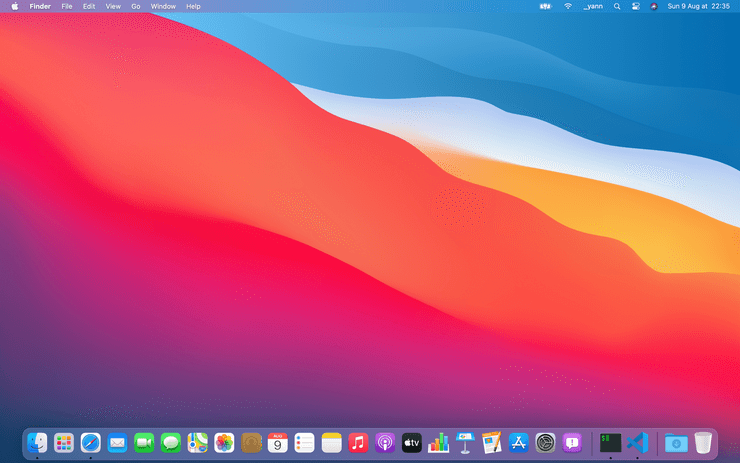
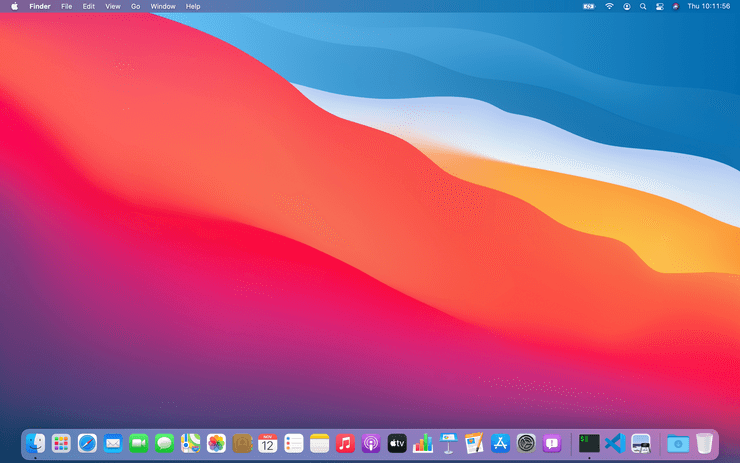
:recycle: Use MacRunner

diff --git a/record/dock/orientation/bottom.js b/record/dock/orientation/bottom.js
@@ -1,42 +1,27 @@
-const delay = require('delay')
-const glob = require('glob-promise')
-const robot = require('robotjs')
-const util = require('util')
-const exec = util.promisify(require('child_process').exec)
+const MacRunner = require('../../mac-runner')
 const { compressPngImage } = require('../../utils')
 
 module.exports = {
   run: async (outputPath) => {
     console.log('> Recording dock orientation with param set to bottom')
 
-    const { stderr: setEnvError } = await exec('defaults write com.apple.screencapture show-thumbnail -bool false && defaults write com.apple.dock orientation -string bottom && killall Dock')
-    if (setEnvError) {
-      console.error('An error occured while setting up the dock orientation command')
+    try {
+      const runner = new MacRunner()
+      await runner
+        .setDefault('com.apple.dock', 'orientation', '-string bottom', 'killall Dock')
+        .captureScreen(`${outputPath}/bottom-tmp.png`)
+        .deleteDefault('com.apple.dock', 'orientation', 'killall Dock')
+        .run()
+    } catch (runnerError) {
       logRollbackInfo()
-      throw new Error(setEnvError)
+      throw new Error(runnerError)
     }
 
-    // Preparation
-    await delay(3000)
-
-    // Screenshot
-    robot.keyTap('3', ['command', 'shift'])
-    
-    await delay(1000)
-    const screenshot = (await glob(`/Users/${process.env.USER}/Desktop/*.png`)).pop()
-
     try {
-      await compressPngImage(screenshot, outputPath, 'bottom')
+      await compressPngImage(`${outputPath}/bottom-tmp.png`, outputPath, 'bottom')
     } catch (compressPngImageError) {
       logRollbackInfo()
       throw new Error(compressPngImageError)
-    }
-
-    const { stderr: deleteEnvError } = await exec('defaults delete com.apple.screencapture show-thumbnail && defaults delete com.apple.dock orientation && killall Dock')
-    if (deleteEnvError) {
-      console.error('An error occured while cleaning the dock orientation environment')
-      logRollbackInfo()
-      throw new Error(deleteEnvError)
     }
 
     return { filepath: `${outputPath}/bottom` }
@@ -45,5 +30,5 @@ module.exports = {
 
 function logRollbackInfo() {
   console.info('Please manually run this command to make sure everything is properly reset:')
-  console.info('defaults delete com.apple.screencapture show-thumbnail && defaults delete com.apple.dock orientation && killall Dock')
+  console.info('defaults delete com.apple.dock orientation && killall Dock')
 }

diff --git a/record/dock/orientation/right.js b/record/dock/orientation/right.js
@@ -1,42 +1,27 @@
-const delay = require('delay')
-const glob = require('glob-promise')
-const robot = require('robotjs')
-const util = require('util')
-const exec = util.promisify(require('child_process').exec)
+const MacRunner = require('../../mac-runner')
 const { compressPngImage } = require('../../utils')
 
 module.exports = {
   run: async (outputPath) => {
     console.log('> Recording dock orientation with param set to right')
 
-    const { stderr: setEnvError } = await exec('defaults write com.apple.screencapture show-thumbnail -bool false && defaults write com.apple.dock orientation -string right && killall Dock')
-    if (setEnvError) {
-      console.error('An error occured while setting up the dock orientation command')
+    try {
+      const runner = new MacRunner()
+      await runner
+        .setDefault('com.apple.dock', 'orientation', '-string right', 'killall Dock')
+        .captureScreen(`${outputPath}/right-tmp.png`)
+        .deleteDefault('com.apple.dock', 'orientation', 'killall Dock')
+        .run()
+    } catch (runnerError) {
       logRollbackInfo()
-      throw new Error(setEnvError)
+      throw new Error(runnerError)
     }
 
-    // Preparation
-    await delay(3000)
-
-    // Screenshot
-    robot.keyTap('3', ['command', 'shift'])
-    
-    await delay(1000)
-    const screenshot = (await glob(`/Users/${process.env.USER}/Desktop/*.png`)).pop()
-
     try {
-      await compressPngImage(screenshot, outputPath, 'right')
+      await compressPngImage(`${outputPath}/right-tmp.png`, outputPath, 'right')
     } catch (compressPngImageError) {
       logRollbackInfo()
       throw new Error(compressPngImageError)
-    }
-
-    const { stderr: deleteEnvError } = await exec('defaults delete com.apple.screencapture show-thumbnail && defaults delete com.apple.dock orientation && killall Dock')
-    if (deleteEnvError) {
-      console.error('An error occured while cleaning the dock orientation environment')
-      logRollbackInfo()
-      throw new Error(deleteEnvError)
     }
 
     return { filepath: `${outputPath}/right` }
@@ -45,5 +30,5 @@ module.exports = {
 
 function logRollbackInfo() {
   console.info('Please manually run this command to make sure everything is properly reset:')
-  console.info('defaults delete com.apple.screencapture show-thumbnail && defaults delete com.apple.dock orientation && killall Dock')
+  console.info('defaults delete com.apple.dock orientation && killall Dock')
 }

diff --git a/record/dock/orientation/left.js b/record/dock/orientation/left.js
@@ -1,42 +1,27 @@
-const delay = require('delay')
-const glob = require('glob-promise')
-const robot = require('robotjs')
-const util = require('util')
-const exec = util.promisify(require('child_process').exec)
+const MacRunner = require('../../mac-runner')
 const { compressPngImage } = require('../../utils')
 
 module.exports = {
   run: async (outputPath) => {
     console.log('> Recording dock orientation with param set to left')
 
-    const { stderr: setEnvError } = await exec('defaults write com.apple.screencapture show-thumbnail -bool false && defaults write com.apple.dock orientation -string left && killall Dock')
-    if (setEnvError) {
-      console.error('An error occured while setting up the dock orientation command')
+    try {
+      const runner = new MacRunner()
+      await runner
+        .setDefault('com.apple.dock', 'orientation', '-string left', 'killall Dock')
+        .captureScreen(`${outputPath}/left-tmp.png`)
+        .deleteDefault('com.apple.dock', 'orientation', 'killall Dock')
+        .run()
+    } catch (runnerError) {
       logRollbackInfo()
-      throw new Error(setEnvError)
+      throw new Error(runnerError)
     }
 
-    // Preparation
-    await delay(3000)
-
-    // Screenshot
-    robot.keyTap('3', ['command', 'shift'])
-    
-    await delay(1000)
-    const screenshot = (await glob(`/Users/${process.env.USER}/Desktop/*.png`)).pop()
-
     try {
-      await compressPngImage(screenshot, outputPath, 'left')
+      await compressPngImage(`${outputPath}/left-tmp.png`, outputPath, 'left')
     } catch (compressPngImageError) {
       logRollbackInfo()
       throw new Error(compressPngImageError)
-    }
-
-    const { stderr: deleteEnvError } = await exec('defaults delete com.apple.screencapture show-thumbnail && defaults delete com.apple.dock orientation && killall Dock')
-    if (deleteEnvError) {
-      console.error('An error occured while cleaning the dock orientation environment')
-      logRollbackInfo()
-      throw new Error(deleteEnvError)
     }
 
     return { filepath: `${outputPath}/left` }
@@ -45,5 +30,5 @@ module.exports = {
 
 function logRollbackInfo() {
   console.info('Please manually run this command to make sure everything is properly reset:')
-  console.info('defaults delete com.apple.screencapture show-thumbnail && defaults delete com.apple.dock orientation && killall Dock')
+  console.info('defaults delete com.apple.dock orientation && killall Dock')
 }
